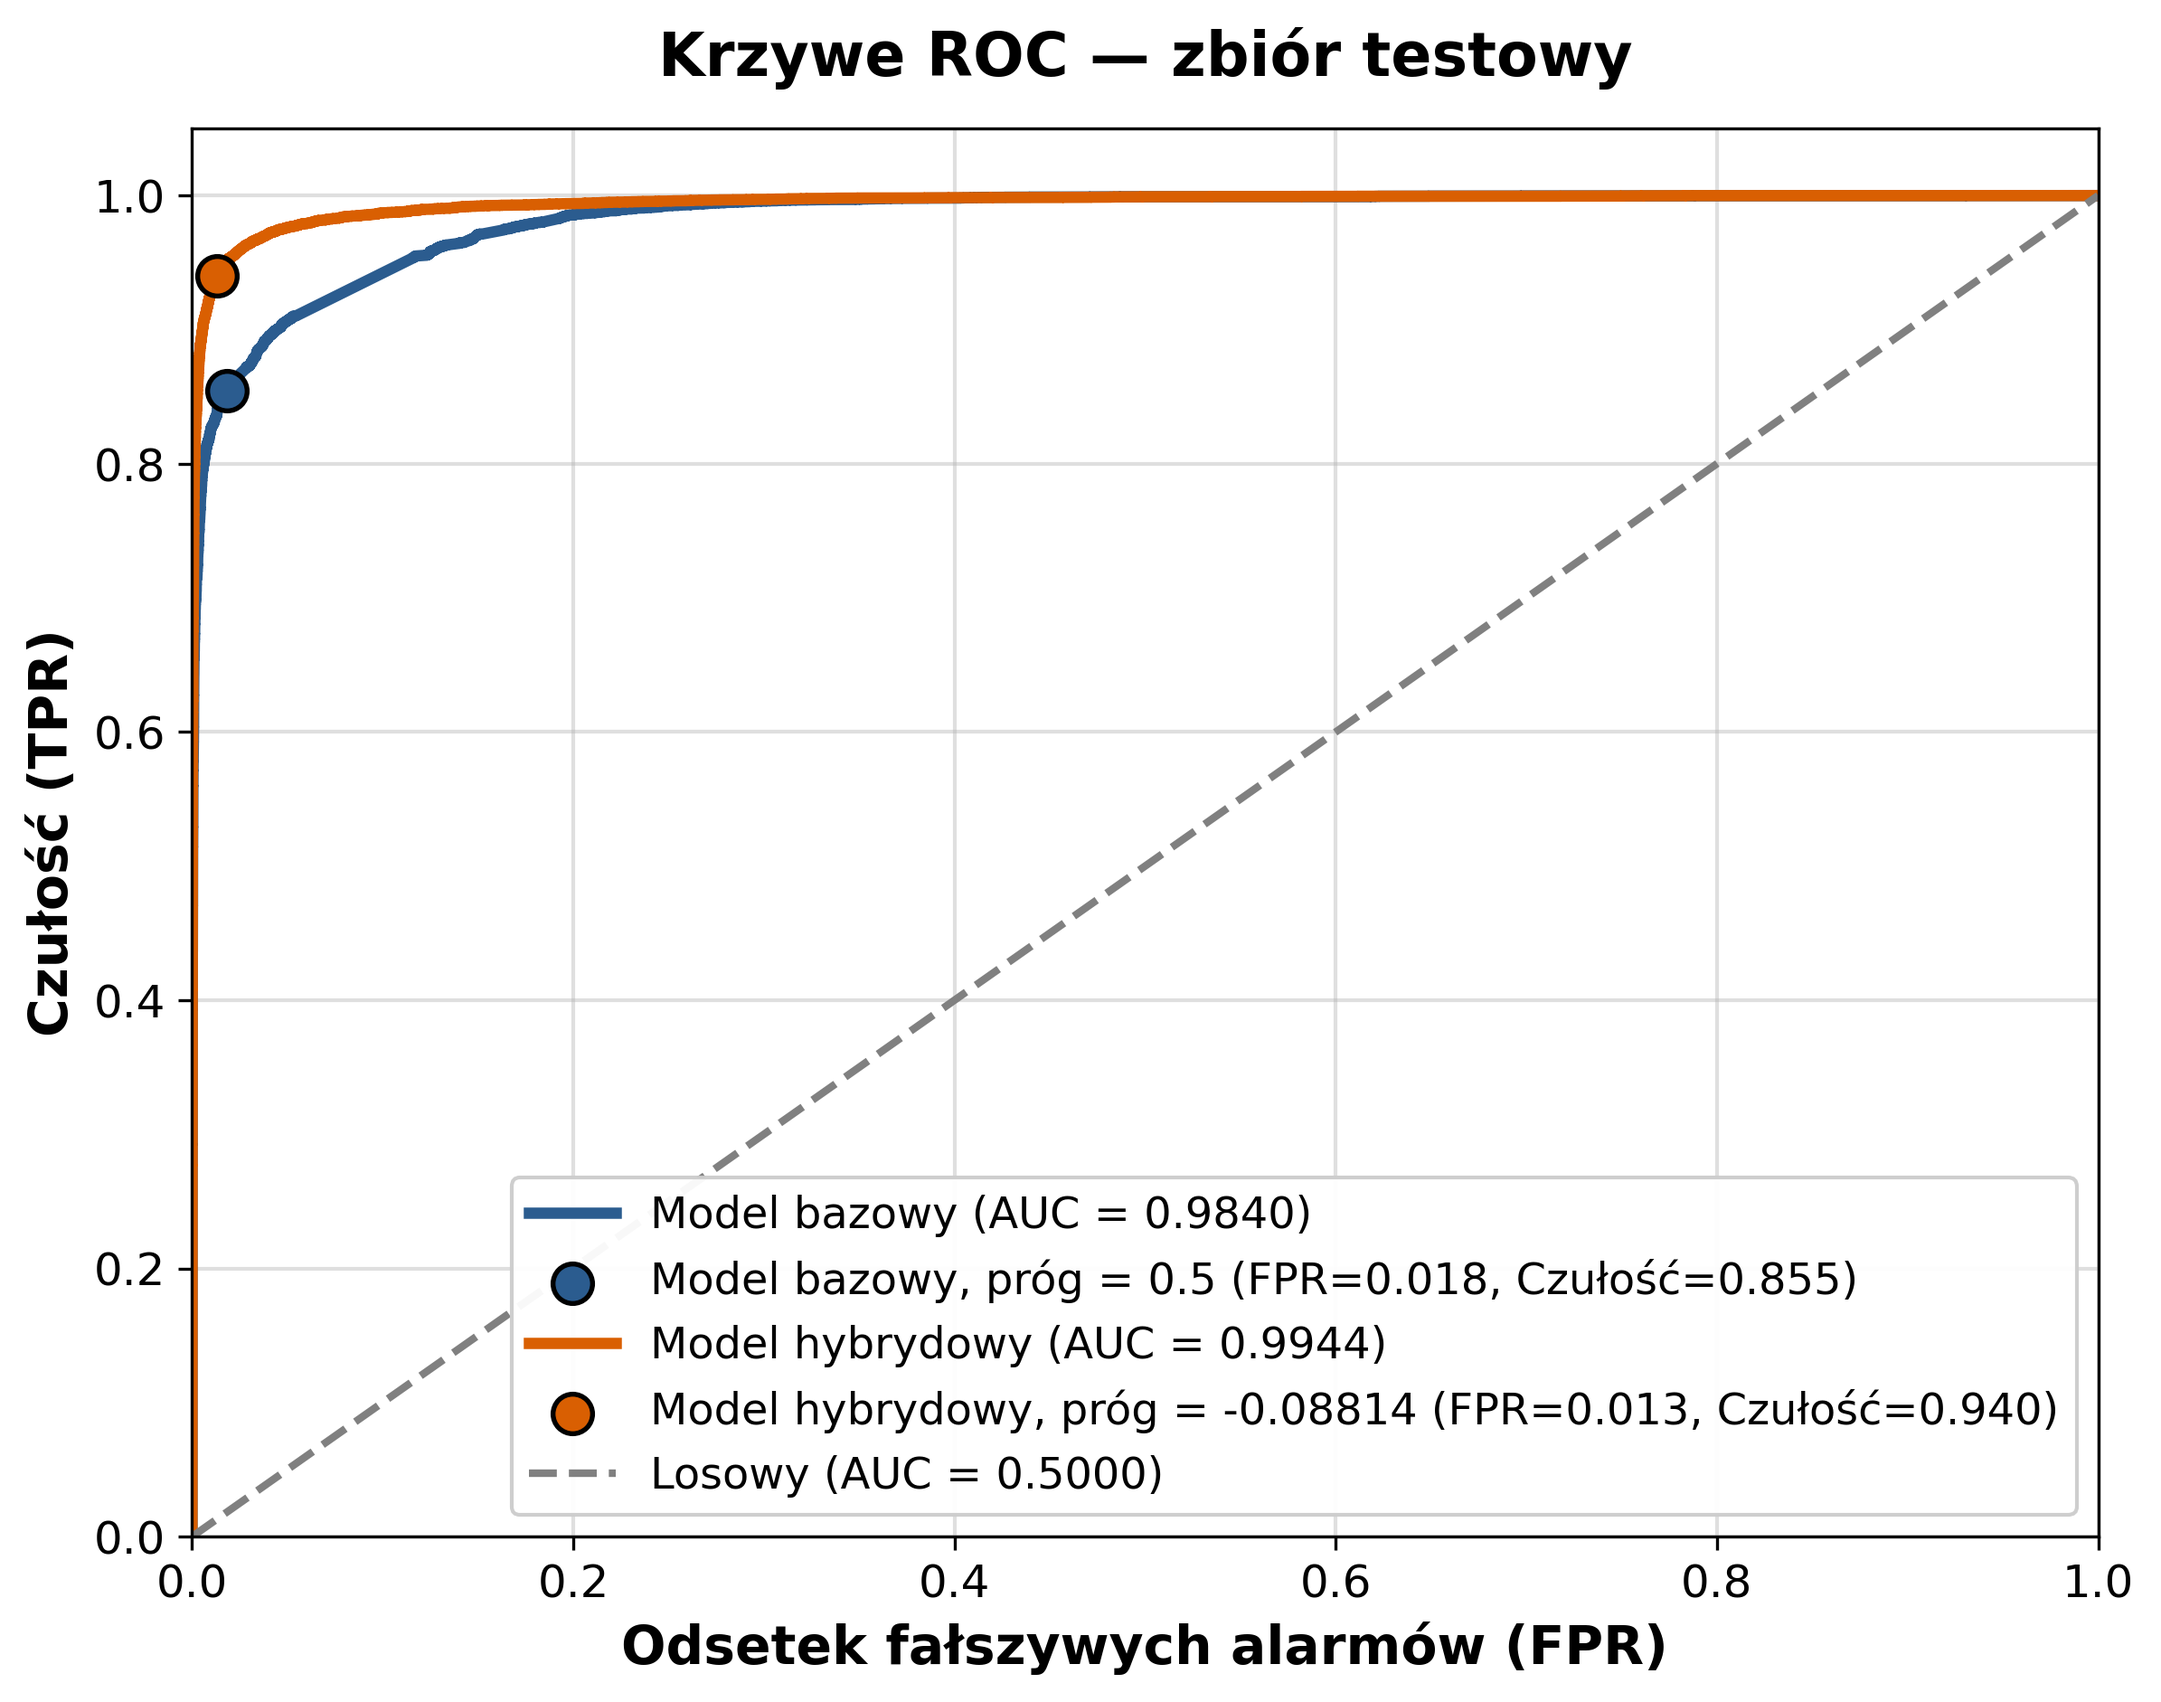
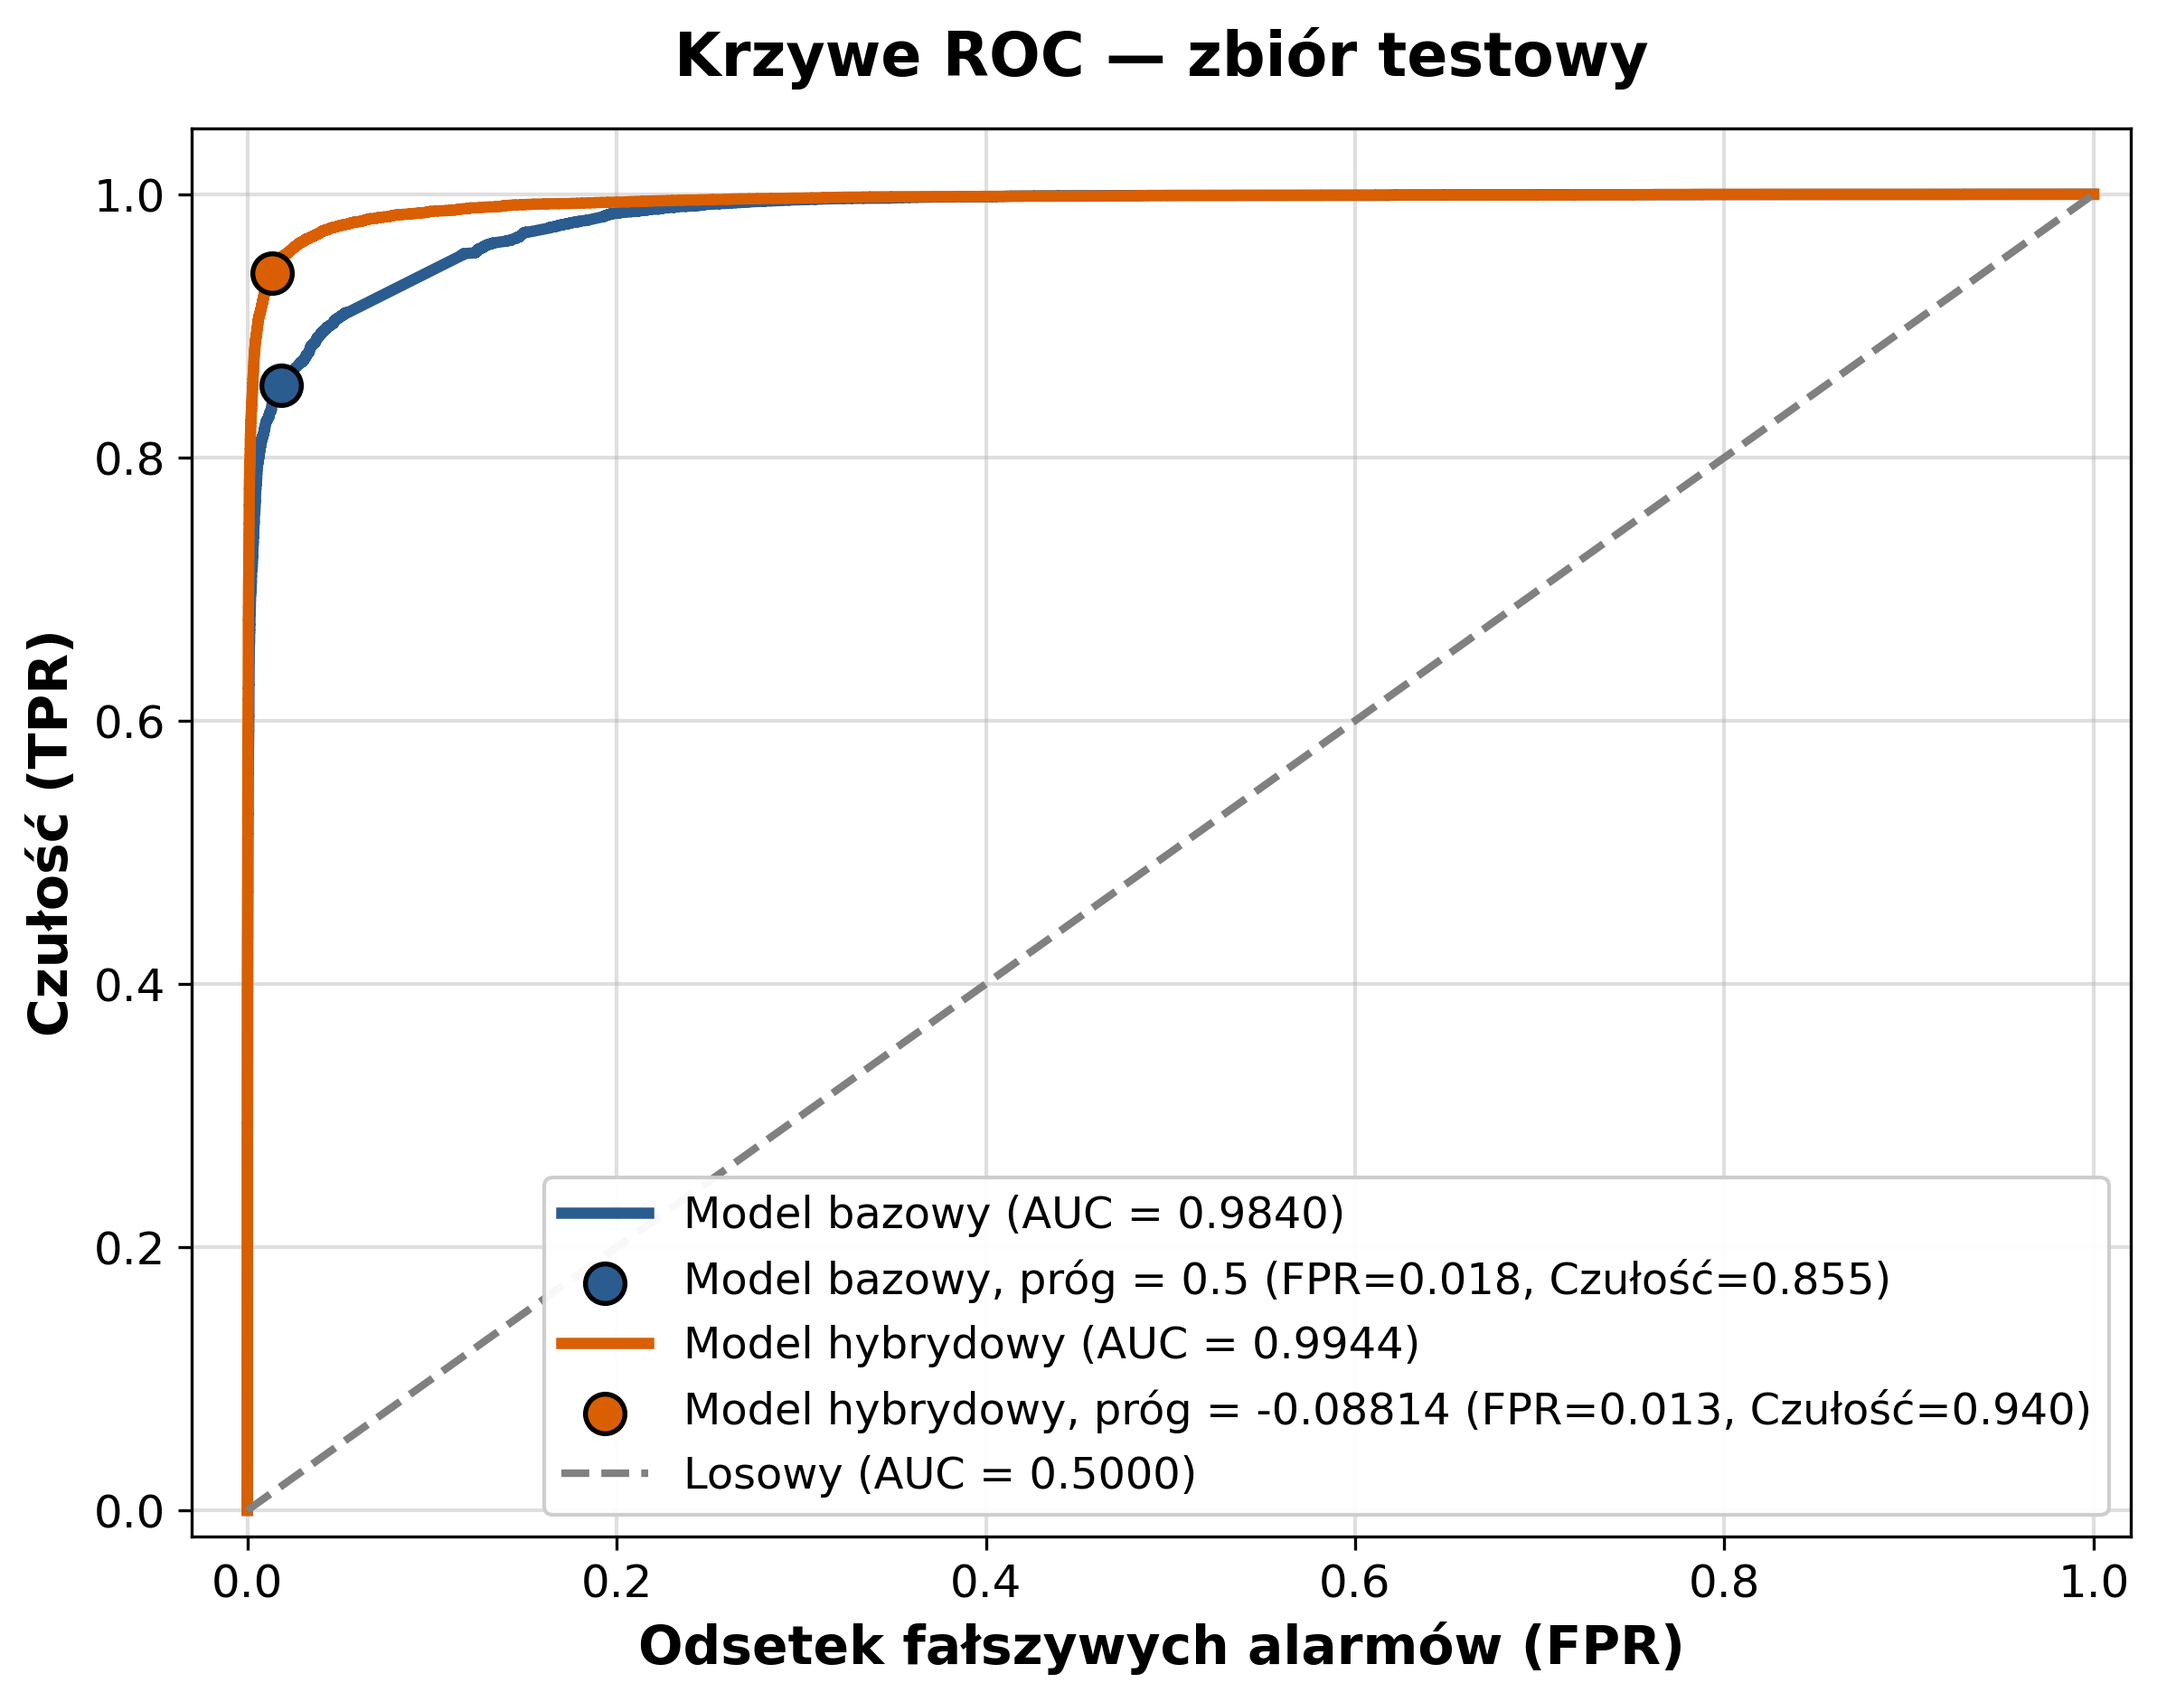
style(figures): extend ROC curve axis limits below zero for full curve visibility

diff --git a/src/final_eval.py b/src/final_eval.py
@@ -235,8 +235,8 @@ def _plot_roc_curves(
         )
 
     axis.plot([0, 1], [0, 1], linestyle="--", lw=2.0, color="gray", label="Losowy (AUC = 0.5000)")
-    axis.set_xlim(0, 1)
-    axis.set_ylim(0, 1.05)
+    axis.set_xlim(-0.03, 1.02)
+    axis.set_ylim(-0.02, 1.05)
     axis.set_xlabel("Odsetek fałszywych alarmów (FPR)", fontsize=14, fontweight="bold")
     axis.set_ylabel("Czułość (TPR)", fontsize=14, fontweight="bold")
     axis.set_title("Krzywe ROC — zbiór testowy", fontsize=16, fontweight="bold", pad=14)

diff --git a/src/evaluate.py b/src/evaluate.py
@@ -247,8 +247,8 @@ def plot_roc_curve(
             label=f"Próg {threshold:.2f} (FPR={thresh_fpr:.3f}, Czułość={thresh_tpr:.3f})",
         )
 
-    ax.set_xlim([0.0, 1.0])
-    ax.set_ylim([0.0, 1.05])
+    ax.set_xlim([-0.03, 1.02])
+    ax.set_ylim([-0.02, 1.05])
     ax.set_xlabel("Odsetek fałszywych alarmów (FPR)", fontsize=14, fontweight="bold")
     ax.set_ylabel("Czułość (TPR)", fontsize=14, fontweight="bold")
     ax.set_title(f"Krzywa ROC – {model_name}", fontsize=16, fontweight="bold", pad=14)
